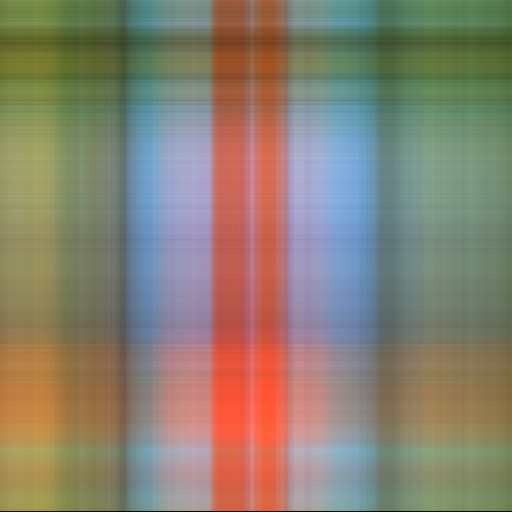
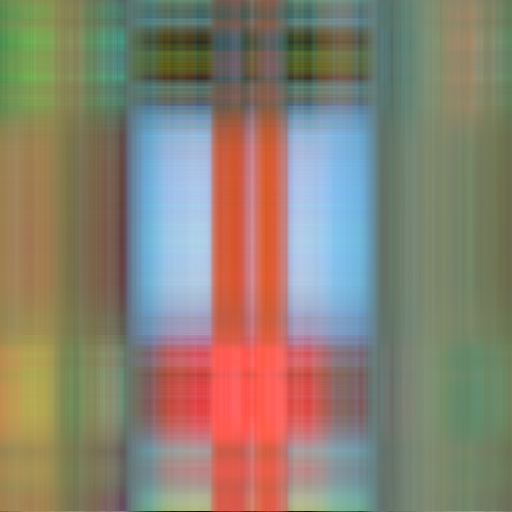
Normalize values to 0 mean before applying SVD

diff --git a/assignment-5/main.py b/assignment-5/main.py
@@ -34,8 +34,9 @@ def main(args):
     print(f"Output: {args.output_image}")
 
     bgr_img = load(full_path=args.input_image).astype('float') # (M, N, 3)
-    # mean, std = bgr_img.mean(), bgr_img.std()
-    # bgr_img = (bgr_img - mean) / std
+    
+    mean = bgr_img.mean(axis=0)
+    bgr_img -= mean
 
     height, width, _ = bgr_img.shape
     K = height if height <= width else width # max k is min(M, N)
@@ -70,14 +71,16 @@ def main(args):
     __g = __u[:, :, 1] @ __s[:, :, 1] @ __vh[:, :, 1]
     __r = __u[:, :, 2] @ __s[:, :, 2] @ __vh[:, :, 2]
     __img = np.dstack((__b, __g, __r))
-    # __img = __img * std + mean
+
+    __img += mean
+    bgr_img += mean
     
     save(__img, full_path=args.output_image)
     print(f"\nCompressed image saved to '{args.output_image}'")
 
     print(f"\nRMSE: {rmse(original=bgr_img, compressed=__img):.4f}")
     rho, fsize, __fsize = compression_ratio(args.input_image, args.output_image)
-    print(f"Compression ratio: {100 * rho:.2f}% = {fsize} / {__fsize}")
+    print(f"Compression ratio: {100 * rho:.2f}% = {__fsize} / {fsize}")
     if args.verbose:
         print(f"'{args.input_image}' file size: {fsize} bytes")
         print(f"'{args.output_image}' file size: {__fsize} bytes")

diff --git a/assignment-5/README.md b/assignment-5/README.md
@@ -16,3 +16,4 @@ optional arguments:
   -h, --help            show this help message and exit
   --verbose, -v         Increase verbosity
 ```
+`for %x in (1, 5, 10, 50, 100, 150, 200, 250, 300, 400, 500, 512) do python main.py i\lenna.png %x`
